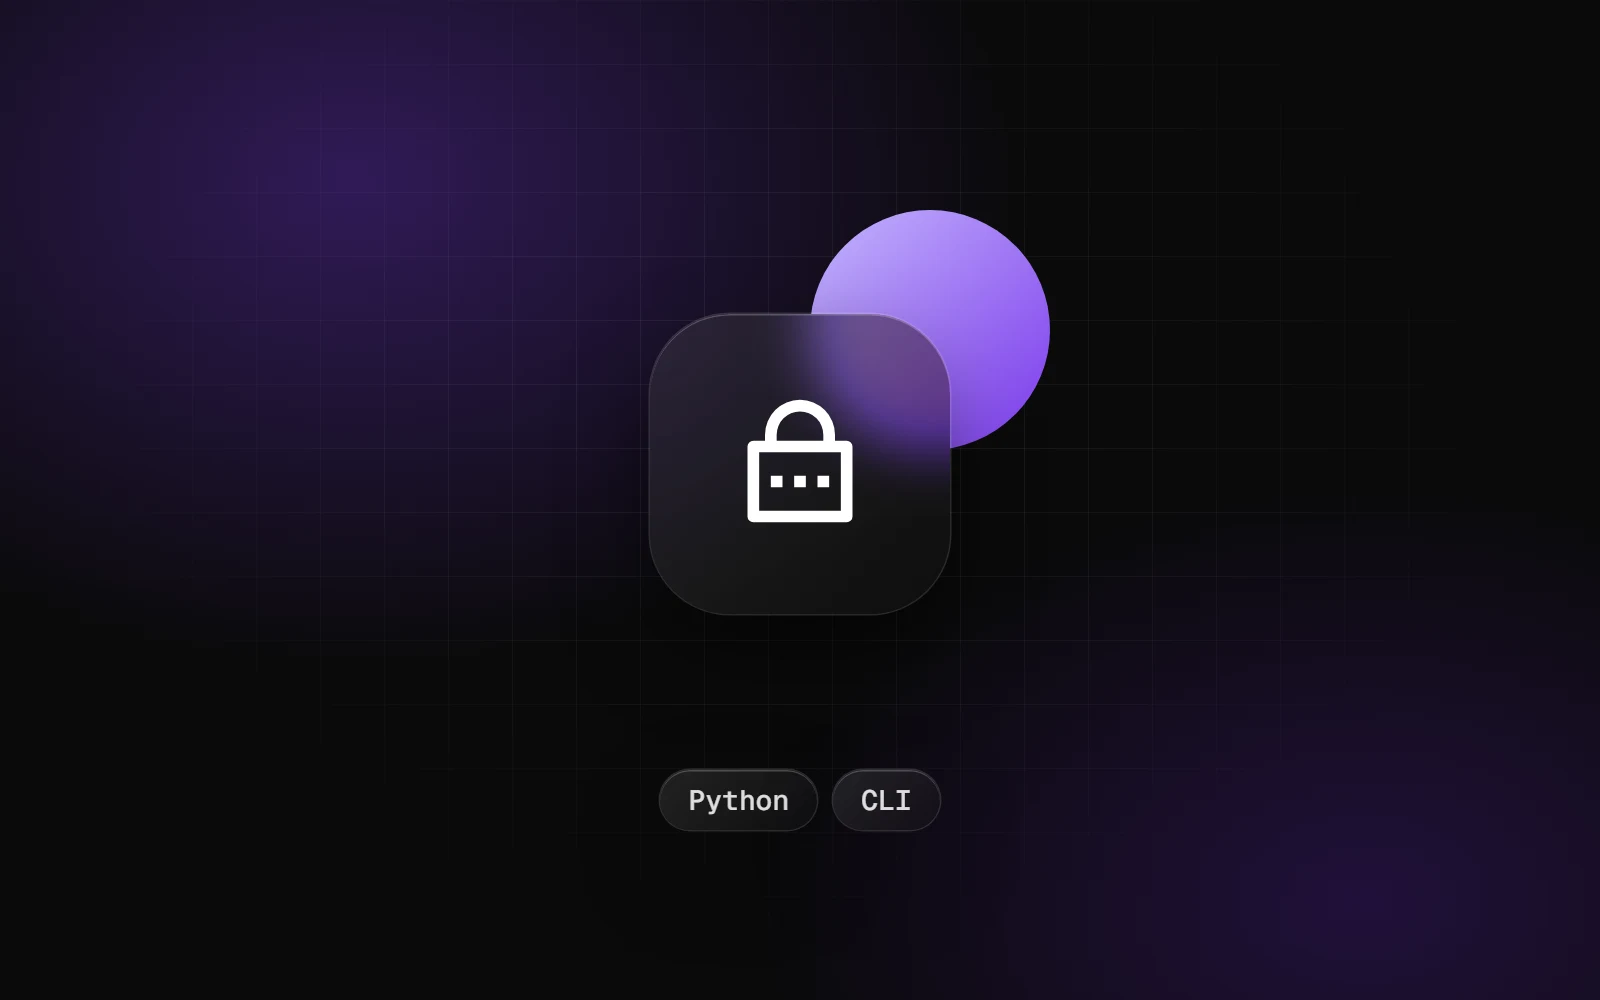
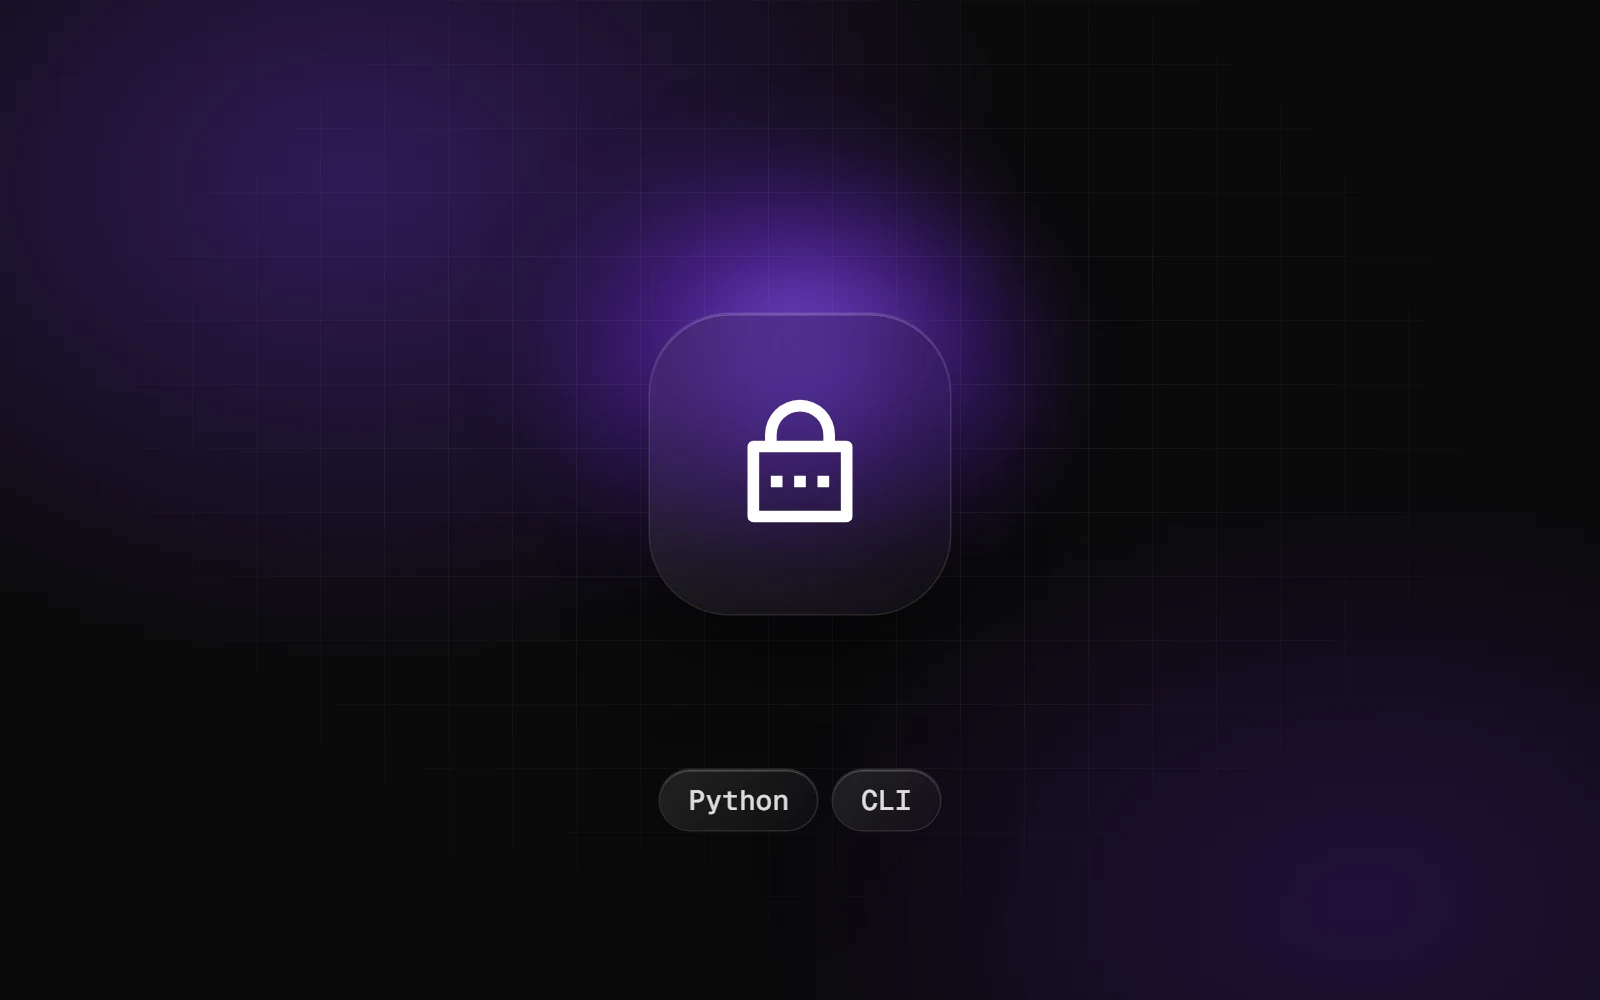
feat: covers on a soft violet glow instead of shapes

Changed region(s): [[0.3438, 0.155, 0.6562, 0.558]]

diff --git a/scripts/cover-template.ts b/scripts/cover-template.ts
@@ -1,8 +1,8 @@
 /**
- * Shared template of the project covers: the site's dark violet light, sharp
- * violet shapes and one glass element in front of them. The element is a
- * window around a desktop capture, a phone around a mobile capture, or an
- * icon tile with keywords for the projects without a public interface.
+ * Shared template of the project covers: the site's dark violet light and one
+ * glass element over a soft violet glow, the same on every cover. The element
+ * is a window around a desktop capture, a phone around a mobile capture, or an
+ * icon tile with keywords for the projects without an interface.
  */
 import { createRequire } from 'node:module'
 import { pathToFileURL } from 'node:url'
@@ -20,17 +20,6 @@ export type CoverFrame =
   | { kind: 'window'; capture: URL; pixelated?: boolean }
   | { kind: 'phone'; capture: URL }
 
-/**
- * One shape per cover, behind the glass element, so the blur has something to work on.
- * It changes from one cover to the next: a row of covers should not look stamped.
- */
-const SHAPES = [
-  'disc" style="top: 60px; right: 180px; width: 420px; height: 420px;',
-  'bar" style="top: 470px; left: 60px; width: 620px; height: 96px; rotate: -18deg;',
-  'disc" style="bottom: 50px; left: 170px; width: 380px; height: 380px;',
-  'bar" style="top: 150px; right: 40px; width: 560px; height: 90px; rotate: 22deg;',
-]
-
 function fontUrl(path: string) {
   return pathToFileURL(require.resolve(path)).href
 }
@@ -43,17 +32,14 @@ function iconSvg(name: string) {
 
 function frameHtml(frame: CoverFrame) {
   if (frame.kind === 'icon') {
-    return `<div class="shape backlight"></div>
-  <div class="tile glass">${iconSvg(frame.icon)}</div>
+    return `<div class="tile glass">${iconSvg(frame.icon)}</div>
   <div class="keywords">${frame.keywords.map((word) => `<span class="glass">${word}</span>`).join('')}</div>`
   }
   const image = `<img src="${frame.capture.href}" alt=""${frame.kind === 'window' && frame.pixelated ? ' class="pixelated"' : ''}>`
   return `<div class="${frame.kind} glass">${image}</div>`
 }
 
-export function coverHtml(frame: CoverFrame, variant: number) {
-  const shape =
-    frame.kind === 'icon' ? '' : `<div class="shape ${SHAPES[variant % SHAPES.length]}"></div>`
+export function coverHtml(frame: CoverFrame) {
   const sans = fontUrl('@fontsource-variable/geist/files/geist-latin-wght-normal.woff2')
   const mono = fontUrl('@fontsource-variable/geist-mono/files/geist-mono-latin-wght-normal.woff2')
   return `<!doctype html>
@@ -87,17 +73,19 @@ export function coverHtml(frame: CoverFrame, variant: number) {
     background-size: 64px 64px;
     mask-image: radial-gradient(ellipse at 50% 40%, black 15%, transparent 72%);
   }
-  .shape { position: absolute; border-radius: 9999px; }
-  .disc { background: linear-gradient(135deg, #a78bfa, #6d28d9); }
-  .backlight {
-    top: 250px;
+  .glow {
+    position: absolute;
+    top: 130px;
     left: 50%;
-    width: 240px;
-    height: 240px;
-    background: linear-gradient(135deg, #c4b5fd, #7c3aed);
-    translate: 10px -40px;
+    width: 560px;
+    height: 460px;
+    border-radius: 50%;
+    background: radial-gradient(closest-side, #8b5cf6, rgb(109 40 217 / 0.5), transparent);
+    filter: blur(40px);
+    translate: -50% 0;
   }
-  .bar { background: linear-gradient(90deg, #a855f7, #4f46e5); }
+  .glow--window,
+  .glow--phone { top: 170px; width: 1100px; height: 640px; opacity: 0.8; }
   .glass {
     position: absolute;
     background:
@@ -160,7 +148,7 @@ export function coverHtml(frame: CoverFrame, variant: number) {
 <body>
   <div class="light"></div>
   <div class="grid"></div>
-  ${shape}
+  <div class="glow glow--${frame.kind}"></div>
   ${frameHtml(frame)}
 </body>
 </html>`

diff --git a/scripts/covers.ts b/scripts/covers.ts
@@ -56,10 +56,10 @@ const browser = await chromium.launch({
 })
 try {
   const page = await browser.newPage({ viewport: { width: WIDTH, height: HEIGHT } })
-  for (const [index, cover] of covers.entries()) {
+  for (const cover of covers) {
     if (requested.size > 0 && !requested.has(cover.id)) continue
     const html = join(workDir, `${cover.id}.html`)
-    await writeFile(html, coverHtml(cover.frame, index))
+    await writeFile(html, coverHtml(cover.frame))
     await page.goto(pathToFileURL(html).href, { waitUntil: 'load' })
     await page.evaluate(() => document.fonts.ready)
     const png = await page.screenshot({ type: 'png' })

diff --git a/CHANGELOG.md b/CHANGELOG.md
@@ -10,7 +10,7 @@ All notable changes to this project are documented here. The format follows [Kee
 - Cards share one hover: a short lift and a violet edge, without lightening the card.
 - Project filters sit in a glass selector; contact fields have a thin outline and a single violet focus ring.
 - Projects page: one project per row, image and text alternating sides.
-- New project covers in the site's style: product captures in a glass window (Move in a phone frame), an icon tile over violet shapes for the projects without a public interface.
+- New project covers in the site's style: a glass window around the product capture (Move in a phone frame), or an icon tile for the projects without a public interface, over the same violet glow.
 - Resume, legal notice and privacy pages follow the same design: violet light at the top, legal texts in a glass card.
 
 ### Fixed
